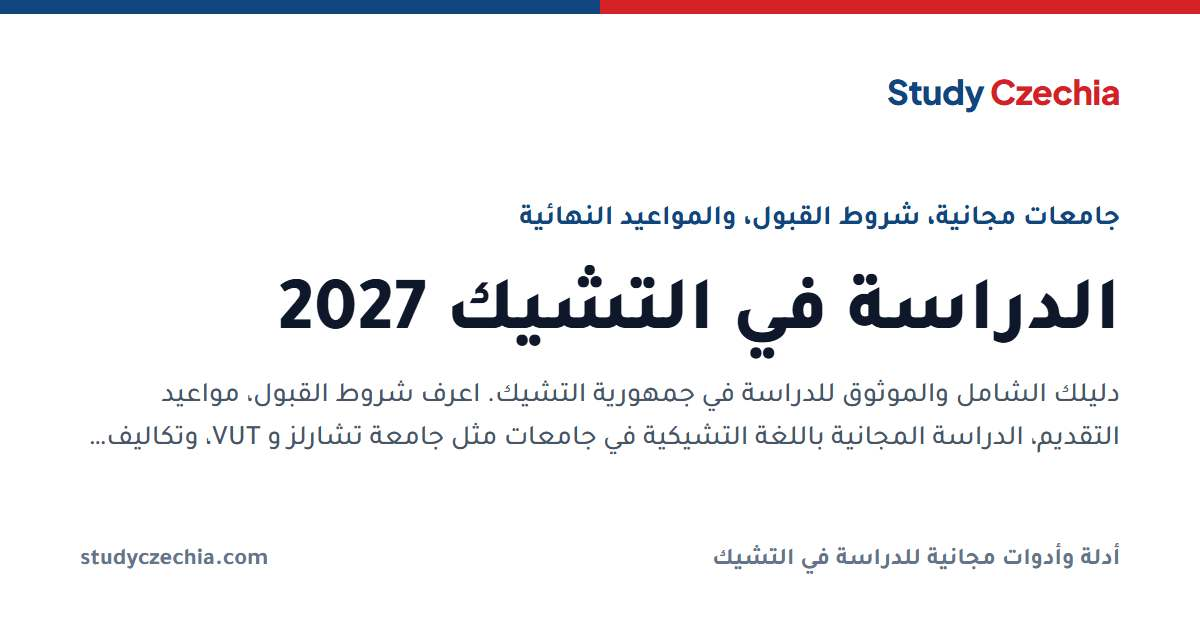
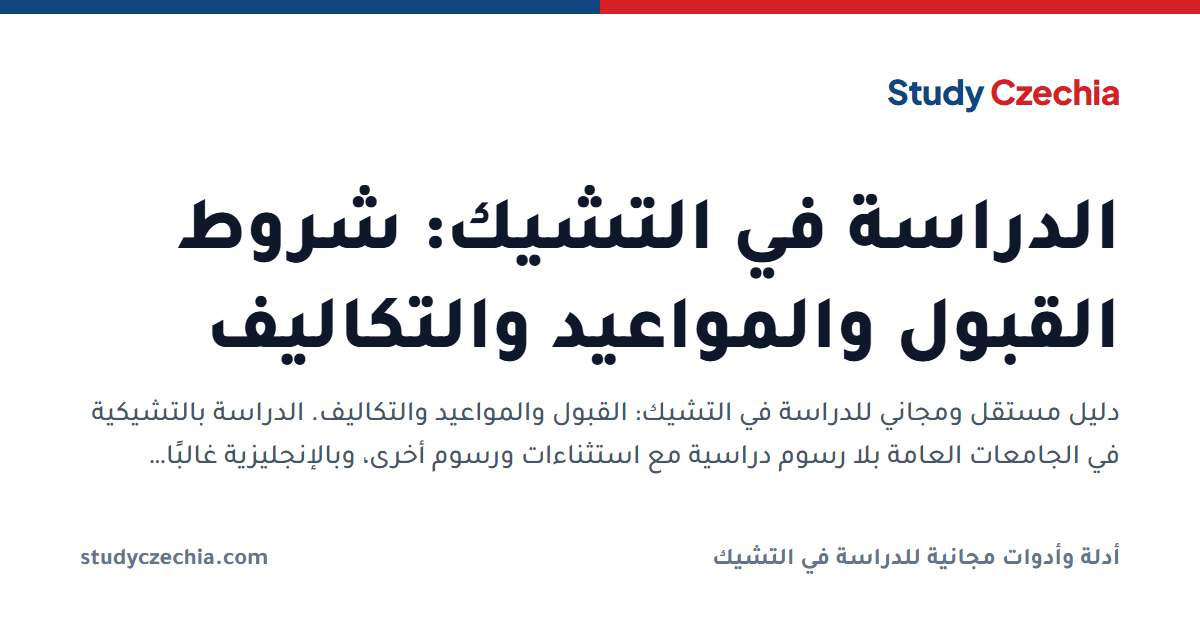
Make the Arabic home title evergreen and the description accurate
Bing flagged the /ar/ title (71 characters) and description (184) as
too long. The title also claimed "free universities" and a 2027 date
the home page does not support (its only 2027 mentions are the
course's pre-order and launch offer).

The new title keeps the main keyword without a year or free claim.
The description separates the free, independent guide from tuition-
free Czech-taught study at public universities, notes exceptions and
other fees, and says English-taught study generally charges fees.
Title 50 characters; description 169, kept over Bing's 160 guideline
rather than lose natural Arabic. The four decorative home images keep
alt="" (Bing's alt warning is a false positive for them). The /ar/
share card is regenerated.

Changed region(s): [[0.0617, 0.3016, 0.9558, 0.754]]

diff --git a/src/i18n/ar-metadata.ts b/src/i18n/ar-metadata.ts
@@ -5,9 +5,9 @@ const SITE_URL = process.env.NEXT_PUBLIC_SITE_URL || "https://studyczechia.com";
 /** Arabic titles and descriptions for the static pages (Modern Standard Arabic for search). */
 export const AR_PAGE_META: Record<string, { title: string; description: string }> = {
   "/": {
-    title: "الدراسة في التشيك 2027 | جامعات مجانية، شروط القبول، والمواعيد النهائية",
+    title: "الدراسة في التشيك: شروط القبول والمواعيد والتكاليف",
     description:
-      "دليلك الشامل والموثوق للدراسة في جمهورية التشيك. اعرف شروط القبول، مواعيد التقديم، الدراسة المجانية باللغة التشيكية في جامعات مثل جامعة تشارلز و VUT، وتكاليف المعيشة. بدون رسوم وكالات.",
+      "دليل مستقل ومجاني للدراسة في التشيك: القبول والمواعيد والتكاليف. الدراسة بالتشيكية في الجامعات العامة بلا رسوم دراسية مع استثناءات ورسوم أخرى، وبالإنجليزية غالبًا برسوم.",
   },
   "/about/": {
     title: "من نحن",

diff --git a/test/ar-home-metadata.test.ts b/test/ar-home-metadata.test.ts
@@ -1,0 +1,19 @@
+import { AR_PAGE_META } from "@/i18n/ar-metadata";
+
+describe("Arabic home metadata", () => {
+  const { title, description } = AR_PAGE_META["/"];
+
+  it("keeps the main keyword and makes no freshness or free-university claim", () => {
+    expect(title.startsWith("الدراسة في التشيك")).toBe(true);
+    expect(title).not.toMatch(/20\d\d/);
+    expect(title).not.toContain("جامعات مجانية");
+  });
+
+  it("separates the free guide from tuition-free Czech-taught study, with its exceptions", () => {
+    expect(description).toContain("دليل مستقل ومجاني");
+    expect(description).toContain("بالتشيكية في الجامعات العامة بلا رسوم دراسية");
+    expect(description).toContain("مع استثناءات ورسوم أخرى");
+    expect(description).toContain("بالإنجليزية غالبًا برسوم");
+    expect(description).not.toMatch(/الموثوق|جامعات مجانية/);
+  });
+});
